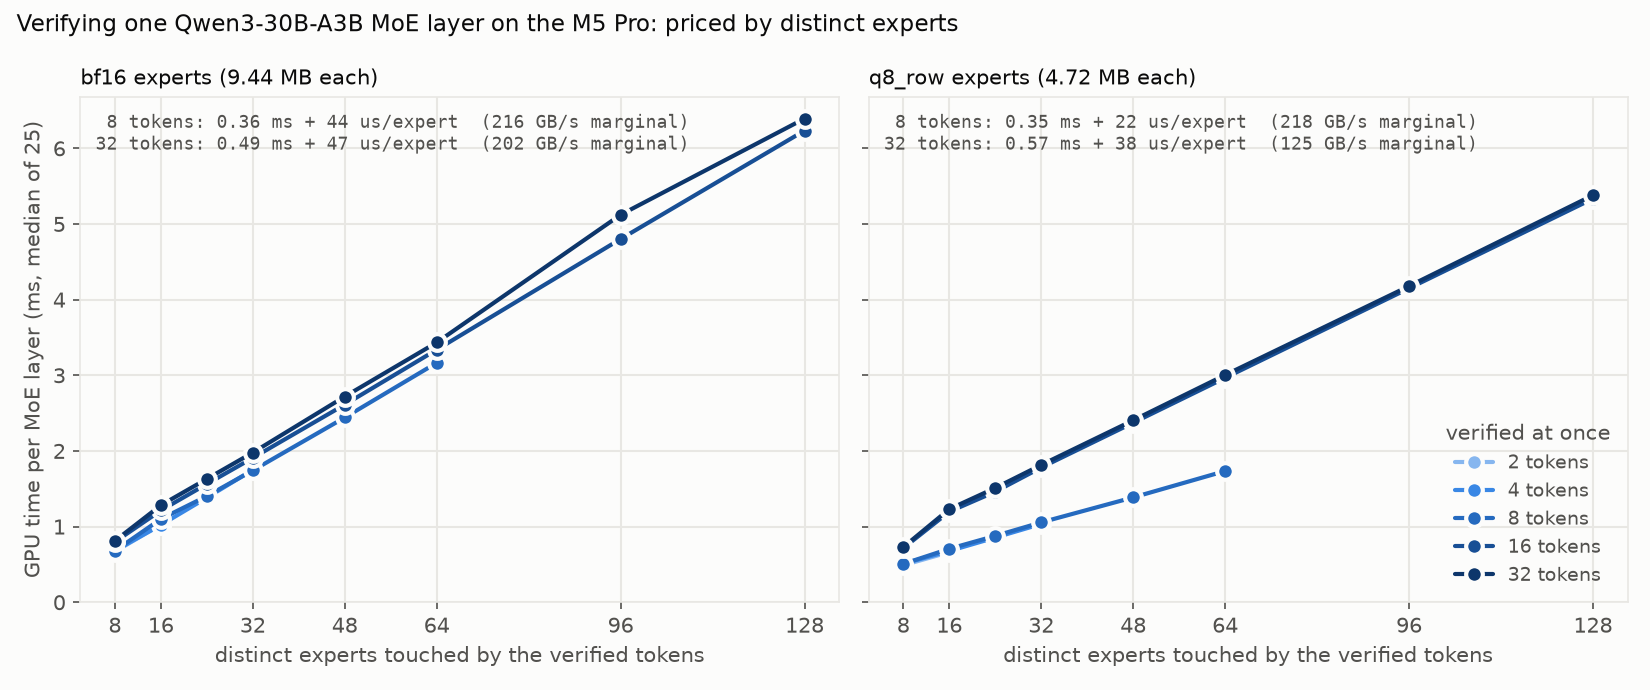
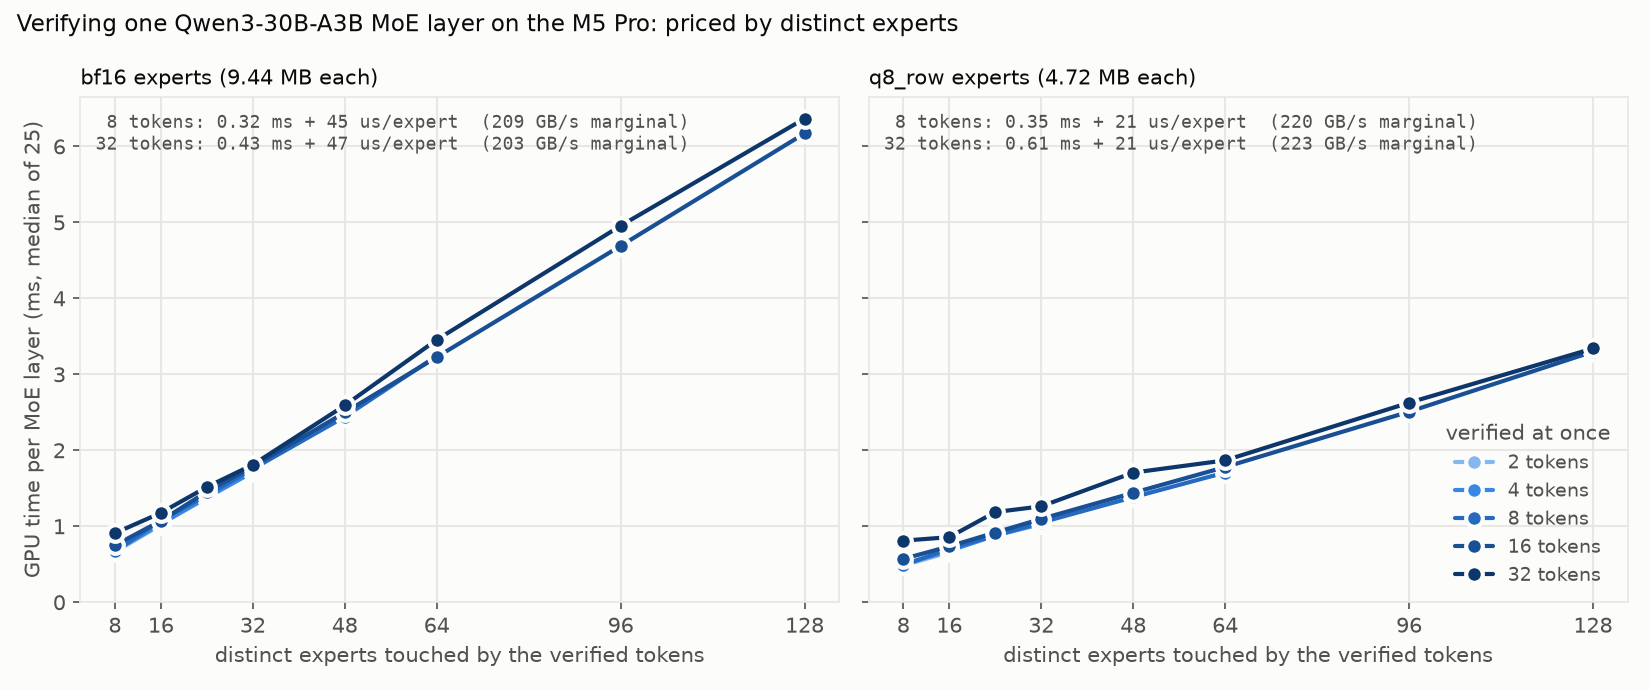
Tile expert rows in eights at every verify size
The grouped MoE kernels split a group of up to 32 rows into 8-row tiles
instead of one 32-row op that computes absent rows for smaller groups.
q8_row experts now cost 21-23 us each at 16 and 32 tokens, down from 38,
so a 32-token verify touching 64 experts drops from 3.00 to 1.87 ms per
layer. bf16, bandwidth-bound, is unchanged; parity holds for both.

diff --git a/src/gpu_forward.m b/src/gpu_forward.m
@@ -27,8 +27,7 @@
 enum { K_MATMUL_NAIVE, K_MATMUL_SIMD, K_MATMUL_TENSOR, K_EMBED, K_RMSNORM,
        K_QKROPE, K_ATTN, K_SWIGLU, K_RESIDUAL, K_NARROW, K_EMBED_Q,
        K_Q8_ROW, K_Q8_G32, K_Q4_ROW, K_Q4_G32, K_Q4_G64, K_MATMUL_TENSOR_8X32,
-       K_MOE_ROUTE, K_MOE_GROUP, K_MOE_GATHER, K_MOE_MM8, K_MOE_MM32, K_MOE_SCATTER,
-       K_MOE_Q8_8, K_MOE_Q8_32, K_COUNT };
+       K_MOE_ROUTE, K_MOE_GROUP, K_MOE_GATHER, K_MOE_MM, K_MOE_SCATTER, K_MOE_Q8, K_COUNT };
 
 static const char *gpu_kernel_names[K_COUNT] = {
     "matmul_naive", "matmul_simdgroup", "matmul_tensorops", "embed_lookup",
@@ -36,11 +35,11 @@ static const char *gpu_kernel_names[K_COUNT] = {
     "narrow_bf16", "embed_lookup_q",
     "matmul_q8_row", "matmul_q8_g32", "matmul_q4_row", "matmul_q4_g32", "matmul_q4_g64",
     "matmul_tensorops_8x32",
-    "moe_route", "moe_group", "moe_gather", "moe_matmul_8", "moe_matmul_32", "moe_scatter",
-    "moe_matmul_q8row_8", "moe_matmul_q8row_32",
+    "moe_route", "moe_group", "moe_gather", "moe_matmul", "moe_scatter", "moe_matmul_q8row",
 };
 
-/* A MoE pass takes at most one tile of rows per expert group (kernels.metal). */
+/* A MoE pass takes at most 4 row tiles of 8 per expert group (kernels.metal),
+ * so at most 32 tokens. */
 enum { MOE_MAX_ROWS = 32 };
 
 /* A projection as the GPU sees it: offsets into the one weights buffer, and
@@ -345,22 +344,24 @@ static void pso_set(GpuModel *g, id<MTLComputeCommandEncoder> enc, int kernel, v
     for (int i = 0; i < nb; i++) [enc setBuffer:(__bridge id<MTLBuffer>)bufs[i] offset:0 atIndex:(NSUInteger)i];
 }
 
-/* One projection for every expert group at once: row y of the grid is a
- * group, column x a 32-wide tile of its output. 8-row tiles when no group can
- * exceed 8 rows (n <= 8), as in the dense pass. */
+/* One projection for every expert group at once: grid column x is a 32-wide
+ * tile of the output, row y one of a group's 8-row tiles. Each group gets as
+ * many row tiles as n tokens could fill, so a decode step dispatches no empty
+ * ones. */
 static void encode_moe_matmul(GpuModel *g, id<MTLComputeCommandEncoder> enc, void *C, void *A,
                               int layer, int proj, int n, int N, int K) {
     const int E = g->cfg.num_experts, pairs = n * g->cfg.num_experts_per_tok;
     const bool q8 = g->layer[layer].moe_q8;
     void *bufs[] = {C, A, g->weights, g->moe_offs, g->moe_groups, g->moe_ng};
-    pso_set(g, enc, q8 ? (n <= 8 ? K_MOE_Q8_8 : K_MOE_Q8_32) : (n <= 8 ? K_MOE_MM8 : K_MOE_MM32),
-            bufs, 6);
+    pso_set(g, enc, q8 ? K_MOE_Q8 : K_MOE_MM, bufs, 6);
     if (q8) [enc setBuffer:(__bridge id<MTLBuffer>)g->weights offset:0 atIndex:7];
     [enc setBuffer:(__bridge id<MTLBuffer>)g->moe_offs
             offset:((NSUInteger)layer * 3 + (NSUInteger)proj) * (NSUInteger)E * 2 * sizeof(uint64_t) atIndex:3];
-    struct MatmulDimsC d = {(uint32_t)n, (uint32_t)N, (uint32_t)K};
+    /* M carries the row tiles per group, which the kernel strides the grid by. */
+    struct MatmulDimsC d = {(uint32_t)((n + 7) / 8), (uint32_t)N, (uint32_t)K};
     [enc setBytes:&d length:sizeof d atIndex:6];
-    [enc dispatchThreadgroups:MTLSizeMake((NSUInteger)((N + 31) / 32), (NSUInteger)(pairs < E ? pairs : E), 1)
+    const NSUInteger groups = (NSUInteger)(pairs < E ? pairs : E);
+    [enc dispatchThreadgroups:MTLSizeMake((NSUInteger)((N + 31) / 32), groups * (NSUInteger)d.M, 1)
         threadsPerThreadgroup:MTLSizeMake(128, 1, 1)];
 }
 

diff --git a/docs/devlog.md b/docs/devlog.md
@@ -225,13 +225,28 @@ The verify-cost surface, both formats measured in one session
 
 - **Half the bytes, half the marginal expert** -- 44 -> 22 us at <= 8 tokens,
   at the same ~217 GB/s. The byte model holds across formats.
-- **The 32-row tile throws that away.** Past 8 tokens the q8 kernel pays nearly
+- **The 32-row tile threw that away.** Past 8 tokens the q8 kernel paid nearly
   bf16's price per expert, because the 32-row op computes rows that are not
-  there. The obvious test: 8-row tiles for groups of any size.
+  there.
 
-**Next:** that test, then the 30B checkpoint (a download that needs the human's
-yes): sharded safetensors, parity, and the routing-overlap measurement that
-turns this cost model into a draft scheduler.
+So the grouped kernels now tile rows in eights for groups of any size: grid
+row y is group y / r, row tile y % r, with r = ceil(n / 8) passed in the
+otherwise unused M. Parity unchanged (bf16 and q8 tiny MoE). Same session,
+before -> after, ms per layer:
+
+  q8_row, 16 tokens, 64 experts     2.97 -> 1.78
+  q8_row, 32 tokens, 64 experts     3.00 -> 1.87
+  q8_row, 32 tokens, 128 experts    5.38 -> 3.34
+  bf16,   32 tokens, 64 experts     3.43 -> 3.45   (bandwidth-bound either way)
+
+A q8 expert now costs 21-23 us at every verify size up to 32 tokens. The one
+cost model, for the scheduler to use: **per MoE layer, ~0.35-0.6 ms + 22 us
+per distinct q8_row expert** (44 us bf16), almost independent of how many
+tokens share them.
+
+**Next:** the 30B checkpoint (a download that needs the human's yes): sharded
+safetensors, parity, and the routing-overlap measurement that turns this cost
+model into a draft scheduler.
 
 ## 2026-09-12 (later that night) — Phase 3: quantisation, designed around the matrix units
 
